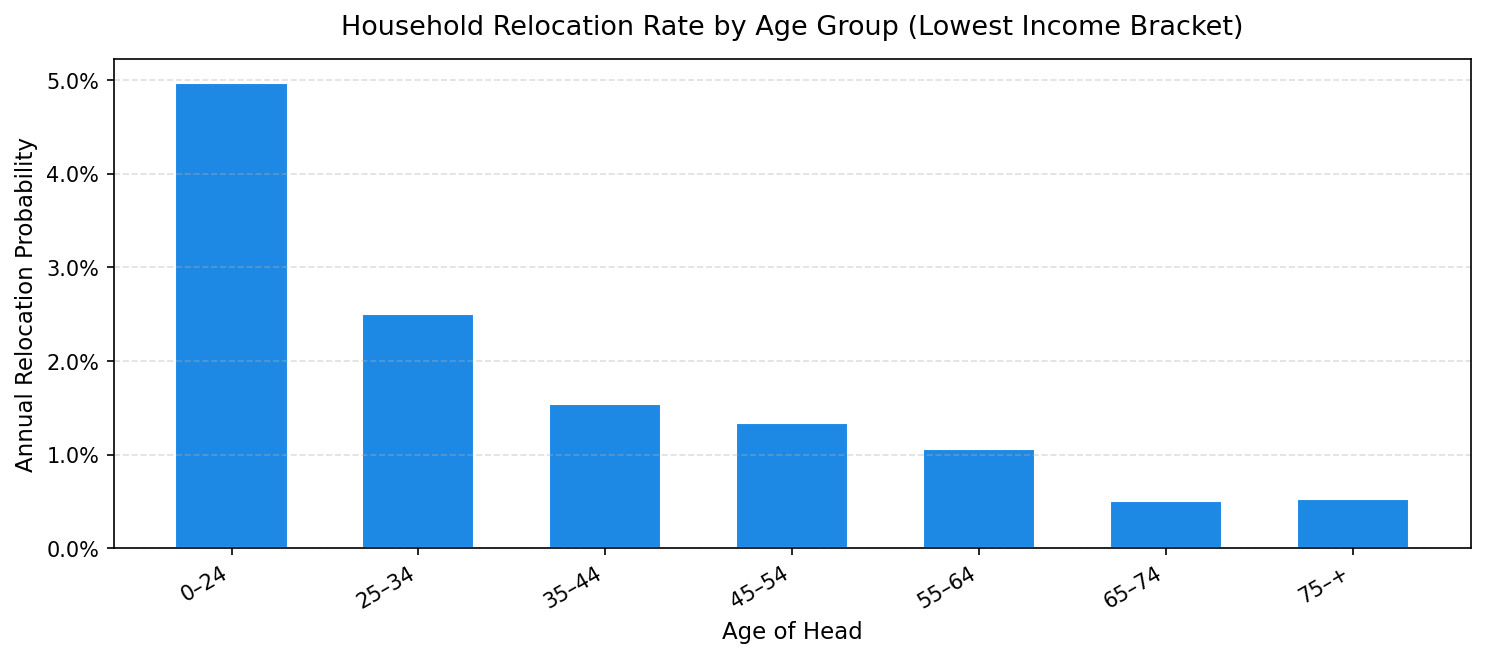
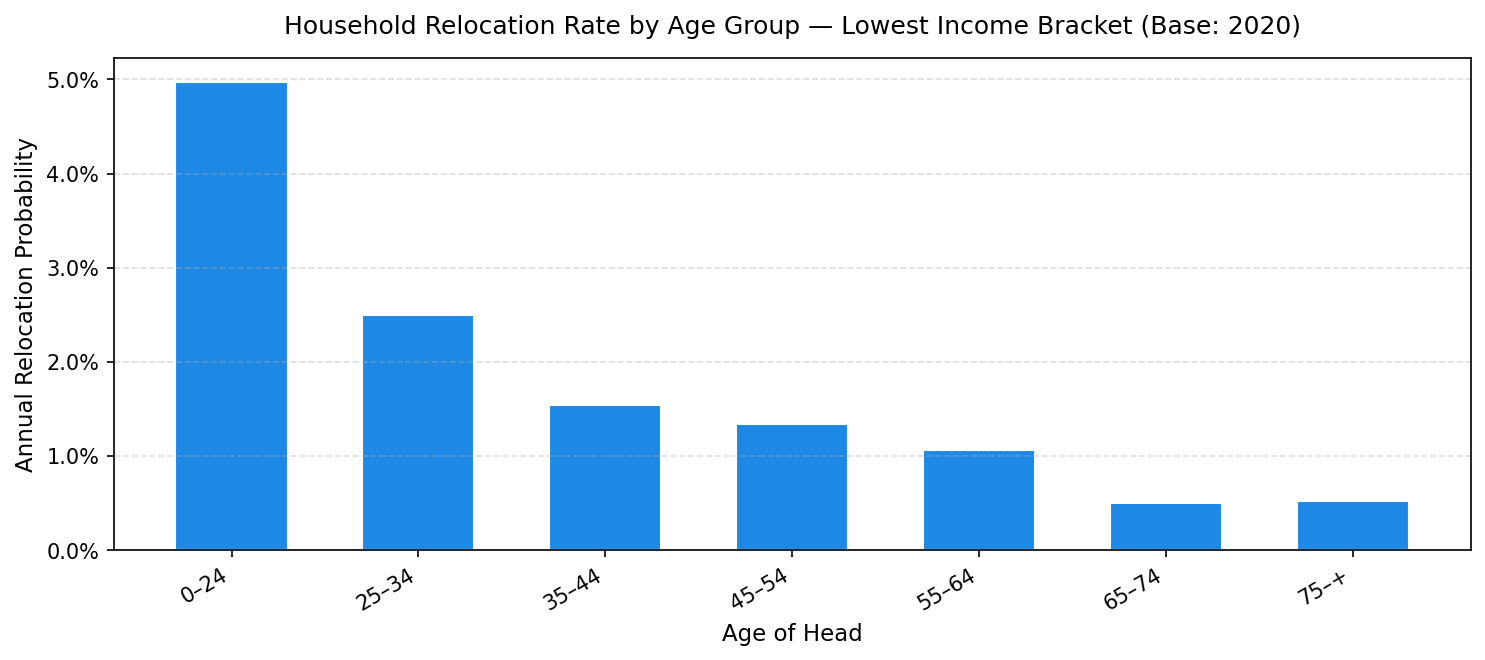
Update data wiki: Fix top line

diff --git a/data_wiki/stylesheets/extra.css b/data_wiki/stylesheets/extra.css
@@ -1,3 +1,21 @@
+/* Larger, more prominent top navigation tabs */
+.md-tabs__link {
+  font-size: 0.85rem;
+  font-weight: 600;
+  padding: 0 1.1rem;
+  letter-spacing: 0.02em;
+  opacity: 0.85;
+}
+
+.md-tabs__link--active,
+.md-tabs__link:hover {
+  opacity: 1;
+}
+
+.md-tabs {
+  height: 2.6rem;
+}
+
 /* Force-close a nav section regardless of Material's active-state CSS */
 .md-nav__item--nested.nav-collapsed > .md-nav {
   display: none !important;

diff --git a/data_wiki/index.md b/data_wiki/index.md
@@ -104,9 +104,9 @@ Each domain is owned by a different team. Use this table to find who to contact 
 | [Geography](domains/geography.md) | `zones`, `semmcds`, `counties`, `large_areas` | PostgreSQL (boundary tables) / constant |
 | [Demographics](domains/demographics.md) | `households`, `persons`, `annual_household_control_totals`, `remi_pop_total`, relocation rates, `target_vacancies`, `mcd_total`, `bg_hh_increase`, group quarters tables | Population synthesis, REMI, ACS, CSV files |
 | [Employment](domains/employment.md) | `jobs`, `annual_employment_control_totals`, `annual_relocation_rates_for_jobs`, `building_sqft_per_job`, `employment_sectors`, `employed_workers_rate` | CSV files, REMI |
-| [Development & Context](domains/development-context.md) | `events_addition`, `events_deletion`, `refiner_events`, `demolition_rates`, `landmark_worksites`, `schools`, `crime_rates`, building construction costs | PostgreSQL (event/demo tables), CSV, RS Means |
+| [Development & Context](domains/development-context.md) | `events_addition`, `events_deletion`, `refiner_events`, `demolition_rates`, `landmark_worksites`, `schools`, `crime_rates`, building construction costs | PostgreSQL (event/demo tables), CSV, construction cost estimates |
 | [Street Networks](domains/networks.md) | Walk and drive node/edge tables | `semcog_2050_networks.h5` (separate file) |
-| [Accessibility](domains/accessibility.md) | `accessibility_walk/bike/drive_indicator_by_parcel`, `transit_stops`, `poi` | Accessibility analysis CSVs |
+| [Accessibility](domains/accessibility.md) | `accessibility_walk/bike/drive_indicator_by_parcel`, `transit_stops`, `poi` | Accessibility analysis HDF/CSVs |
 | [Travel Data](domains/travel.md) | `travel_data`, `travel_data_2030` | TransCAD OMX → CSV |
 
 ---

diff --git a/data_wiki/domains/demographics.md b/data_wiki/domains/demographics.md
@@ -156,7 +156,7 @@ Total population by large area × year, directly from REMI. Used to calibrate ho
 | `large_area_id` | int16 | Row index — 8 valid codes |
 | one column per year | int32 | Total population including group quarters |
 
-**Update procedure:** This table is prepared separately from the household controls pipeline. The forecast controls pipeline (Step 1) produces a more detailed file with age group, race, and gender breakdowns used to generate `annual_household_control_totals`. `remi_pop_total` is a simpler aggregate — total population by large area × year — summarized from the same REMI county-level forecasts and saved as a standalone CSV. Update it alongside the controls pipeline using the same REMI run.
+**Update procedure:** This table is prepared separately from the household controls pipeline. The forecast controls pipeline produces a more detailed file with age group, race, and gender breakdowns used to generate `annual_household_control_totals`. `remi_pop_total` is a simpler aggregate — total population by large area × year — summarized from the same REMI county-level forecasts and saved as a standalone CSV. Update it alongside the controls pipeline using the same REMI run.
 
 ![Population forecast by large area](../images/remi_pop_forecast.png)
 
